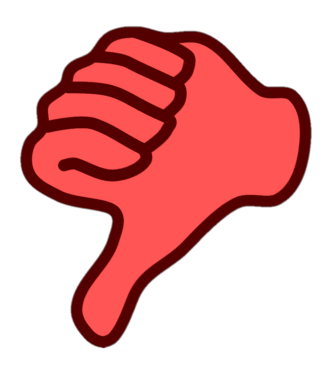
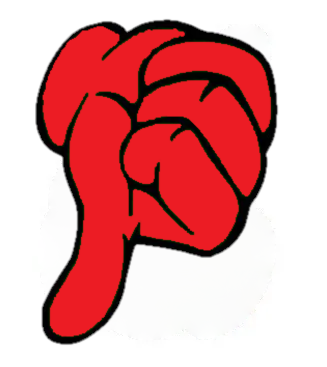
major update on Landing Page DB

diff --git a/Webserver/src/context.js b/Webserver/src/context.js
@@ -8,7 +8,6 @@ const HumidityBuild = require("./assets/ethereumBuilds/Humidity_Alarming.json");
 
 const AppContext = React.createContext();
 
-
 export const AppProvider = ({ children }) => {
   const [error, setError] = useState(false);
   const [co2Loading, setCo2Loading] = useState(true);
@@ -124,8 +123,8 @@ export const AppProvider = ({ children }) => {
           return item["cogeo"];
         });
         var CO2message = {
-          timestamp: new Date(codates[codates.length - 1]).toString(),
-          measurement: covals[covals.length - 1] + " ppm",
+          timestamp: new Date(new Date(codates[codates.length - 1]).getTime() + 3600000).toUTCString(),
+          measurement: covals[covals.length - 1],
           geolocation: (<a href={"https://maps.google.com/?q=" + cogeos[cogeos.length - 1]} target="_blank" rel="noopener noreferrer" > {cogeos[cogeos.length - 1]} </a> ),
         };
         
@@ -166,8 +165,8 @@ export const AppProvider = ({ children }) => {
           return item["ahgeo"];
         });
         var AHmessage = {
-          timestamp: new Date(ahdates[ahdates.length - 1]).toString(),
-          measurement: ahvals[ahvals.length - 1] + " %",
+          timestamp: new Date(new Date(ahdates[ahdates.length - 1]).getTime() + 3600000).toUTCString(),
+          measurement: ahvals[ahvals.length - 1],
           geolocation: (<a href={"https://maps.google.com/?q=" + ahgeos[ahgeos.length - 1]} target="_blank" rel="noopener noreferrer" > {ahgeos[ahgeos.length - 1]} </a> ),
         };
 
@@ -202,8 +201,8 @@ export const AppProvider = ({ children }) => {
           return item["tempgeo"];
         });
         var TEMPmessage = {
-          timestamp: new Date(tempdates[tempdates.length - 1]).toString(),
-          measurement: tempvals[tempvals.length - 1] + " °C",
+          timestamp: new Date(new Date(tempdates[tempdates.length - 1]).getTime() + 3600000).toUTCString(),
+          measurement: tempvals[tempvals.length - 1],
           geolocation: (<a href={"https://maps.google.com/?q=" + tempgeos[tempgeos.length - 1]} target="_blank" rel="noopener noreferrer">{tempgeos[tempgeos.length - 1]}</a>),
         };
 
@@ -238,8 +237,8 @@ export const AppProvider = ({ children }) => {
           return item["nogeo"];
         });
         var NOmessage = {
-          timestamp: new Date(nodates[nodates.length - 1]).toString(),
-          measurement: novals[novals.length - 1] + " ppm",
+          timestamp: new Date(new Date(nodates[nodates.length - 1]).getTime() + 3600000).toUTCString(),
+          measurement: novals[novals.length - 1],
           geolocation: (<a href={"https://maps.google.com/?q=" + nogeos[nogeos.length - 1]} target="_blank" rel="noopener noreferrer">{nogeos[nogeos.length - 1]}</a>),
         };
 
@@ -274,8 +273,8 @@ export const AppProvider = ({ children }) => {
           return item["pm2geo"];
         });
         var PM2message = {
-          timestamp: new Date(pm2dates[pm2dates.length - 1]).toString(),
-          measurement: pm2vals[pm2vals.length - 1] + " °C",
+          timestamp: new Date(new Date(pm2dates[pm2dates.length - 1]).getTime() + 3600000).toUTCString(),
+          measurement: pm2vals[pm2vals.length - 1],
           geolocation: (<a href={"https://maps.google.com/?q=" + pm2geos[pm2geos.length - 1]} target="_blank" rel="noopener noreferrer">{pm2geos[pm2geos.length - 1]}</a>),
         };
 
@@ -310,8 +309,8 @@ export const AppProvider = ({ children }) => {
           return item["pm10geo"];
         });
         var PM10message = {
-          timestamp: new Date(pm10dates[pm10dates.length - 1]).toString(),
-          measurement: pm10vals[pm10vals.length - 1] + " °C",
+          timestamp: new Date(new Date(pm10dates[pm10dates.length - 1]).getTime() + 3600000).toUTCString(),
+          measurement: pm10vals[pm10vals.length - 1],
           geolocation: (<a href={"https://maps.google.com/?q=" + pm10geos[pm10geos.length - 1]} target="_blank" rel="noopener noreferrer">{pm10geos[pm10geos.length - 1]}</a>),
         };
 
@@ -346,8 +345,8 @@ export const AppProvider = ({ children }) => {
           return item["sogeo"];
         });
         var SOmessage = {
-          timestamp: new Date(sodates[sodates.length - 1]).toString(),
-          measurement: sovals[sovals.length - 1] + " °C",
+          timestamp: new Date(new Date(sodates[sodates.length - 1]).getTime() + 3600000).toUTCString(),
+          measurement: sovals[sovals.length - 1],
           geolocation: (<a href={"https://maps.google.com/?q=" + sogeos[sogeos.length - 1]} target="_blank" rel="noopener noreferrer">{sogeos[sogeos.length - 1]}</a>),
         };
 

diff --git a/Webserver/src/components/General_Components/Overview.js b/Webserver/src/components/General_Components/Overview.js
@@ -1,26 +1,23 @@
-import React, { Component } from "react";
+import React from "react";
+import redthumbdown from "../../assets/images/redthumbdown.png";
 import greenthumbup from "../../assets/images/greenthumbup.png";
 import greencert from "../../assets/images/greencert.png";
 import redcert from "../../assets/images/redcert.png";
 import Overview_structure from "../../assets/images/Overview_structure.png";
-import { Card, CardGroup, Container, Jumbotron } from "react-bootstrap";
+import { Card, CardGroup, Container, Jumbotron, Button } from "react-bootstrap";
 import "../Database_components/style.components.css";
 import { useGlobalContext } from "../../context";
 
 var colimitred=1000; var ahlimitred=95; var templimitred=60; var nolimitred=1000; 
 var pm2limitred=1000; var pm10limitred=1000; var solimitred=1000;
 
-var text1 = "The greenhouse gas emissions in your area are ";
-var text2 = "with government emission limits the last 7 days.";
 var textyesorno = "IN COMPLIANCE ";
 
 function Overview() {
   var certificateboolOverview = true;
   var thumb_img = greencert;
   var thumb_alt = "Green Thumb Up";
-  var notext1 = "";
-  var notext2 = "";
-  var notext3 = "";
+  var notext1 = ""; var notext2 = ""; var notext3 = "";
   var noimg = greenthumbup;
   var noalt = "Green Thumb Up";
   var noemissions = "";
@@ -66,9 +63,6 @@ for(i=0; i<pm2valarray7.length-1; i++){
   if(parseInt(sovalarray7[i]) >= solimitred){certboolSO = false;}
 }
 
-
-var kkk="";
-
   if (certboolCO2 === false) {certificateboolOverview = false; COStr = "Carbon Dioxide (CO2)";}
   if (certboolAH === false) {certificateboolOverview = false; AHStr = "Air Humidity";}
   if (certboolTEMP === false) {certificateboolOverview = false; TEMPStr = "Temperature";}
@@ -81,11 +75,10 @@ var kkk="";
     thumb_img = redcert;
     thumb_alt = "Red Thumb Down";
     textyesorno = "NOT IN COMPLIANCE ";
-
     notext1 = "The following greenhouse gases in your area are ";
     notext2 = "NOT IN COMPLIANCE ";
     notext3 = "with the government emission limits:";
-    noimg = redcert;
+    noimg = redthumbdown;
     noalt = "Red Thumb Down";
     noemissions = COStr+", "+AHStr+", "+TEMPStr+", "+NOStr+", "+PM2Str+", "+PM10Str+", "+SOStr;
   } 
@@ -99,10 +92,15 @@ var kkk="";
           <p>Get a quick overview of the emission values in your area!</p>
         </Container>
       </Jumbotron>
+      <img class="mx-auto d-block" src={thumb_img} width="145" height="135" alt={thumb_alt} ></img>
+      <div className="container text-center">
+        <p>The greenhouse gas emissions in your area are <b>{textyesorno}</b> with government emission limits the last 7 days.</p>  
+      </div>  
+
+      <br></br><br></br>
+
       <div className="container">
-        <p><img src={thumb_img} width="130" height="120" alt={thumb_alt} />{" "}
-          {text1} <b>{textyesorno}</b> {text2}{" "}</p>
-        <p>{notext1} <b>{notext2}</b> {notext3}</p>
+        <p>{notext1}<b>{notext2}</b>{notext3}</p>
         <div className="container" id="Overview_red_img_list">
           <img src={noimg} width="100" height="90" alt={noalt}></img>
           <figcaption>
@@ -111,6 +109,22 @@ var kkk="";
           </figcaption>
         </div>
         <br></br> <br></br>
+
+        <div className="container text-center">
+          <div className="row">
+            <div className="col sm-4">
+              Get more info at detail: <br></br>
+              <a class="btn btn-primary btn-lg" href="/detail" role="button">Detailed</a>
+            </div>
+            <div className="col sm-4">
+            Get more info at verified: <br></br>
+              <a class="btn btn-success btn-lg" href="/verified" role="button">Verified</a>
+            </div>
+          </div>
+        </div>
+    
+    <br></br><br></br>
+
         <div className="flex-container">
           <img
             id="overview_structure"

diff --git a/Webserver/src/components/Database_components/LandingPage.js b/Webserver/src/components/Database_components/LandingPage.js
@@ -1,5 +1,5 @@
 import { React, useEffect, useState } from "react";
-import { Card, Jumbotron, Container, Row, } from "react-bootstrap";
+import { Card, Jumbotron, Container, Row, CardDeck, CardGroup, } from "react-bootstrap";
 import CurrentStatus from "./CurrentStatus.js";
 import { Link } from "react-router-dom";
 import "./style.components.css";
@@ -49,23 +49,27 @@ function LandingPage() {
             the air quality.
             Below are links to the websites of the individual values and more 
             detailed information there.
+            <br></br><br></br>
+            <b>On this page you will find the current database values as well as a link to the history data for every measured emission.</b>
           </p>
+          <br></br>
 
           <Container className="dark rounded text-center">
             <Row>
-              <CurrentStatus name={"Carbon Dioxide"} {...co2Eventdb} />
-              <CurrentStatus name={"Air Humidity"} {...airhumidityEventdb} />
-              <CurrentStatus name={"Temperature"} {...temperatureEventdb} />
-              <CurrentStatus name={"Nitrogen Dioxide"} {...nitrogendioxideEventdb} />
-              <CurrentStatus name={"Particular Matter 2.5"} {...particularmatter2Eventdb} />
-              <CurrentStatus name={"Particular Matter 10"} {...particularmatter10Eventdb} />
-              <CurrentStatus name={"Sulfur Dioxdie"} {...sulfurdioxideEventdb} />
+              <CurrentStatus name={"Carbon Dioxide"} {...co2Eventdb} unit="ppm" demoCritical={"0"} />
+              <CurrentStatus name={"Air Humidity"} {...airhumidityEventdb} unit="%" demoCritical={"1"}/>
+              <CurrentStatus name={"Temperature"} {...temperatureEventdb} unit="°C" demoCritical={"2"}/>
+              <CurrentStatus name={"Nitrogen Dioxide"} {...nitrogendioxideEventdb} unit="ppm" />
+              <CurrentStatus name={"Particular Matter 2.5"} {...particularmatter2Eventdb} unit="ppm" />
+              <CurrentStatus name={"Particular Matter 10"} {...particularmatter10Eventdb} unit="ppm" />
+              <CurrentStatus name={"Sulfur Dioxdie"} {...sulfurdioxideEventdb} unit="ppm"/>
             </Row>
           </Container>
 
           <br></br>
 
-          <h2>Measured values</h2>
+          <h2>Measured values - History Data</h2>
+          <p>Click on a picture to get more information.</p>
           <div className="row">
             <div class="col-sm-4">
               <Card>

diff --git a/Webserver/src/components/Database_components/CurrentStatus.js b/Webserver/src/components/Database_components/CurrentStatus.js
@@ -1,4 +1,52 @@
 import React from "react";
+import Card from "react-bootstrap/Card";
+import Badge from "react-bootstrap/Badge";
+import Spinner from "react-bootstrap/Spinner";
+import { Link } from "react-router-dom";
+
+function CurrentStatus({
+  name,
+  unit,
+  loading,
+  timestamp,
+  measurement,
+  critical,
+  demoCritical,
+}) {
+  return (
+  <div className="card col-md-4" style={{width: 18 + 'em'}}>
+      <Card.Header>Dating back to: {timestamp}</Card.Header>
+      <Card.Body
+        className={`${
+          demoCritical === "2"
+            ? "extreme"
+            : demoCritical === "1"
+            ? "medium"
+            : "low"
+        }`}
+      >
+        <Card.Title>Latest {name} measurement:</Card.Title>
+        {loading ? (
+          <Spinner animation="grow" />
+        ) : (
+          <h1>
+            <Badge>
+              {measurement} {unit}
+            </Badge>
+          </h1>
+        )}
+      </Card.Body>
+    </div>
+  );
+}
+
+export default CurrentStatus;
+
+
+
+
+
+/*import React from "react";
 import Col from "react-bootstrap/Col";
 
 function CurrentStatus({ name, timestamp, measurement, geolocation }) {
@@ -13,3 +61,4 @@ function CurrentStatus({ name, timestamp, measurement, geolocation }) {
 }
 
 export default CurrentStatus;
+*/

diff --git a/Webserver/src/components/Database_components/CarbonDioxide.js b/Webserver/src/components/Database_components/CarbonDioxide.js
@@ -232,16 +232,11 @@ export default class CarbonDioxide extends Component {
           <img src={thumb_img} width="100" height="90" alt={thumb_alt} />{" "}
           {text1} <b>{textyesorno}</b> {text2}{" "}
         </p>*/}
+      
+      <img class="mx-auto d-block" src={thumb_img} width="145" height="135" alt={thumb_alt} ></img>
       <div className="container text-center">
-        <div className="row justify-content-center">
-          <div class="col sm-2">
-              <img class="img" src={thumb_img} width="145" height="140" alt={thumb_alt} ></img>
-          </div>
-          <div class="col md-6">
-            The CO2 emissions are <b>{textyesorno}</b> with government emission limits in the selected time range.
-          </div>
-        </div>
-      </div>
+        <p>The CO2 emissions are <b>{textyesorno}</b> with government emission limits in the selected time range.</p>  
+      </div>  
       
 
         <Card border="secondary">
